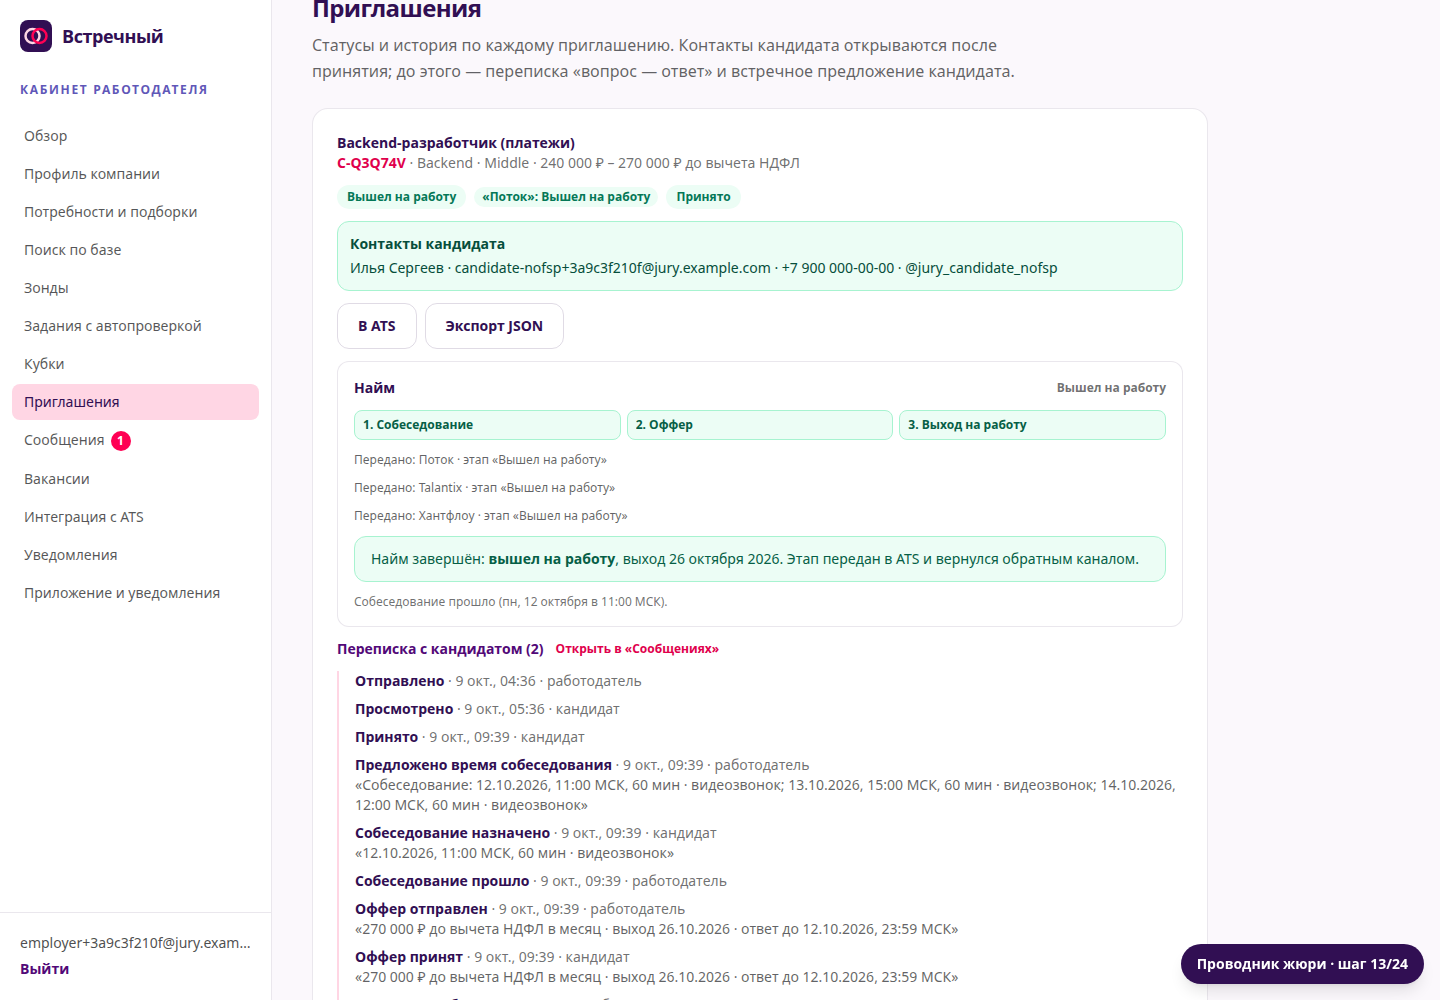
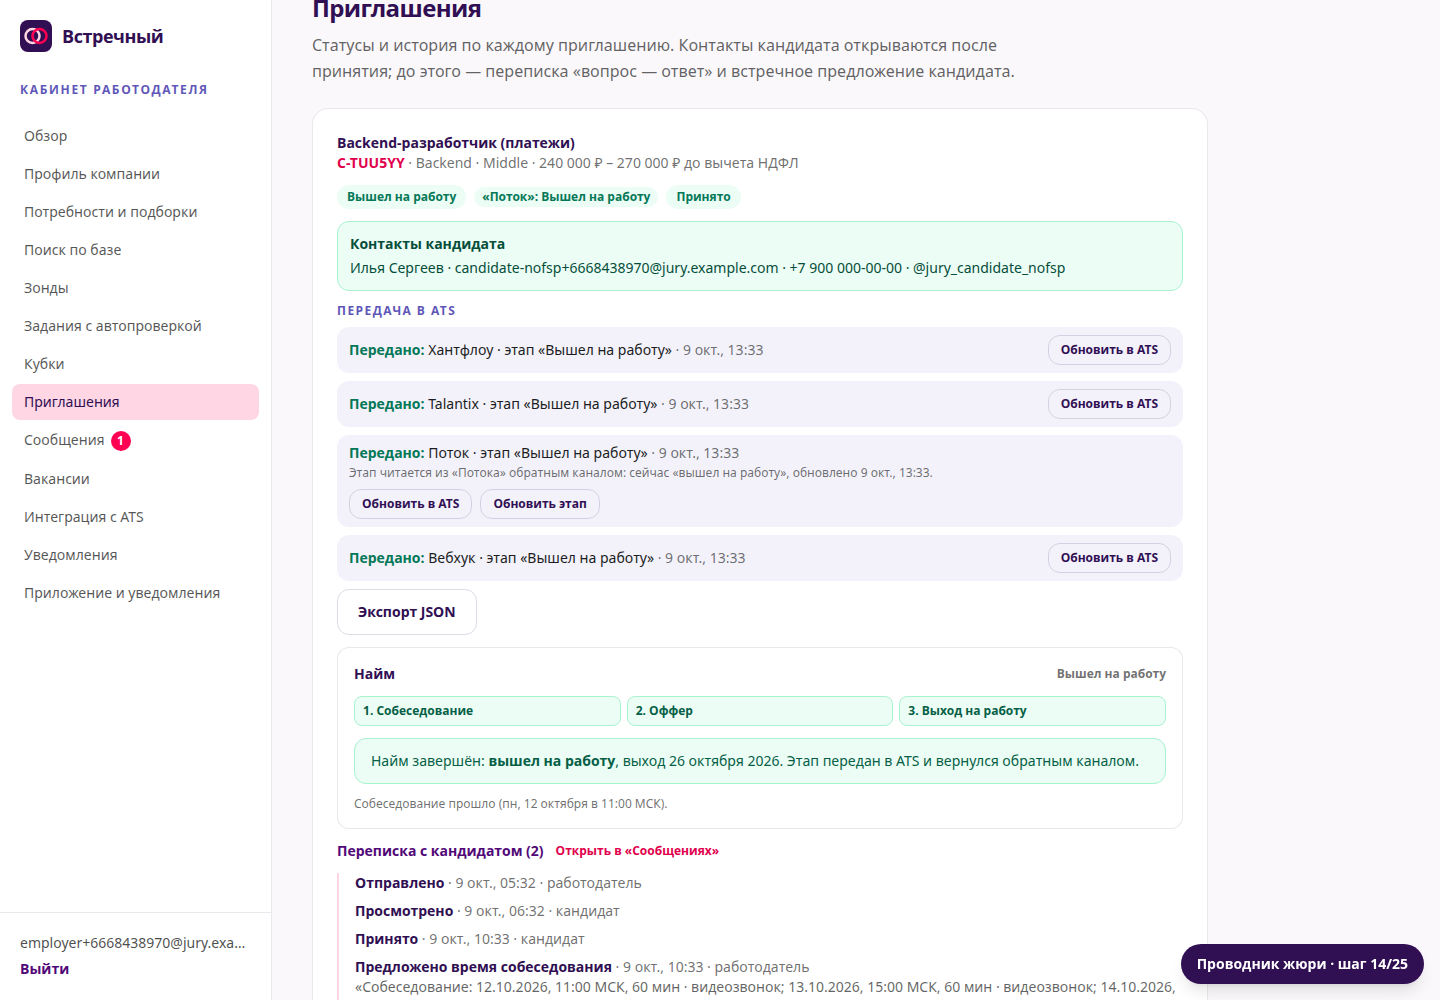
Найм: время передачи в ATS в карточке — с поясом (as_aware в invitation_transfers, на SQLite было без пояса); снимки пересняты после слияния Ф4 (блок «Передача в ATS» по системам с этапом найма); скрипт снимков ждёт состояния на сервере

diff --git a/backend/app/integrations/ats/service.py b/backend/app/integrations/ats/service.py
@@ -19,7 +19,7 @@ from sqlalchemy import or_, select, update
 from sqlalchemy.exc import IntegrityError
 from sqlalchemy.orm import Session
 
-from app.core.db import SessionLocal, utcnow
+from app.core.db import SessionLocal, as_aware, utcnow
 from app.core.enums import InvitationStatus
 from app.integrations.ats import profile as prof
 from app.integrations.ats import providers
@@ -271,7 +271,7 @@ def invitation_transfers(db: Session, company_id: uuid.UUID, inv: Invitation) ->
         state = "sent" if ok else "pending" if last is not None and last.status == "pending" \
             else "error" if last is not None else "not_sent"
         item = {"target": code, "title": TARGET_TITLES[code], "state": state, "enabled": code in enabled,
-                "at": (ok or last).created_at.isoformat() if (ok or last) else None,
+                "at": as_aware((ok or last).created_at).isoformat() if (ok or last) else None,
                 "auto": bool(ok and ok.trigger == "invitation_accepted"),
                 "error": last.error if state == "error" and last is not None else None,
                 "attempts": len(ds), "stage": None}
@@ -282,14 +282,17 @@ def invitation_transfers(db: Session, company_id: uuid.UUID, inv: Invitation) ->
                                  "name": rec.get("stage_name") or PLATFORM_STAGES[rec["stage"]], "at": rec.get("at"),
                                  "synced": True}
             elif (ok.result or {}).get("stage_title"):  # этап при передаче (до первого опроса «Потока»)
-                st_ = ok.result.get("stage") if (ok.trigger or "").startswith("hiring_") else "review"  # этап найма (Н8)
+                # передача этапа найма (Н8) — его этап; первичная передача — «на рассмотрении»
+                st_ = ok.result.get("stage") if (ok.trigger or "").startswith("hiring_") else "review"
                 item["stage"] = {"stage": st_, "title": PLATFORM_STAGES.get(st_, PLATFORM_STAGES["review"]),
-                                 "name": ok.result["stage_title"], "at": ok.created_at.isoformat(), "synced": False}
+                                 "name": ok.result["stage_title"], "at": as_aware(ok.created_at).isoformat(),
+                                 "synced": False}
         elif ok is not None and (ok.trigger or "").startswith("hiring_") and (ok.result or {}).get("stage_title"):
             # этап найма (Н8) в Talantix / Хантфлоу / вебхуке — из ответа ATS на перевод
             st_ = ok.result.get("stage")
             item["stage"] = {"stage": st_, "title": PLATFORM_STAGES.get(st_, ok.result["stage_title"]),
-                             "name": ok.result["stage_title"], "at": ok.created_at.isoformat(), "synced": False}
+                             "name": ok.result["stage_title"], "at": as_aware(ok.created_at).isoformat(),
+                             "synced": False}
         out.append(item)
     return out
 

diff --git a/docs/hiring/README.md b/docs/hiring/README.md
@@ -4,14 +4,15 @@
 работодатель предлагает готовые слоты → Илья выбирает → «Собеседование прошло» → оффер с готовыми значениями → Илья
 принимает → «Вышел на работу» → этап в «Потоке», Talantix, Хантфлоу и вебхуке, обратный канал возвращает этап
 «Вышел на работу» в приглашение у обеих сторон. Ширина 1440 и 390, горизонтальной прокрутки нет (проверка в скрипте).
-Данные — демо-учётки песочницы.
+Данные — демо-учётки песочницы. Время в «Истории» на снимках на 3 часа раньше московского: локальный стенд на SQLite
+хранит время без пояса (на PostgreSQL стенда — по Москве); время найма и передачи в ATS показано верно.
 
 | Снимок | Что на нём |
 |---|---|
 | `1-employer-slots-1440.png`, `1-employer-slots-390.png` | работодатель: блок «Найм», форма «Время собеседования» — три ближайших рабочих дня, видеозвонок, демо-ссылка |
 | `2-candidate-slots-1440.png`, `2-candidate-slots-390.png` | кандидат: выбор слота, «Подтвердить время» / «Ни один не подходит», история с предложенными слотами |
 | `3-candidate-offer-1440.png`, `3-candidate-offer-390.png` | кандидат: оффер (сумма, оценка «на руки», дата выхода, срок ответа) — принять, своя сумма, отклонить |
-| `4-employer-hired-1440.png`, `4-employer-hired-390.png` | работодатель: «Передано: Поток · этап «Вышел на работу»» по каждой ATS, бейдж «Поток»: Вышел на работу», история шагов |
+| `4-employer-hired-1440.png`, `4-employer-hired-390.png` | работодатель: блок «Передача в ATS» — «Передано: Поток · этап «Вышел на работу»» и так же по Хантфлоу, Talantix, вебхуку; бейдж ««Поток»: Вышел на работу»; «Найм завершён» |
 
 Повторить: backend на :8134 (`DATABASE_URL=sqlite:////tmp/hiring/srv/s.db DEV_MODE=true ATS_STUB_BASE_URL=http://127.0.0.1:8134
 HIRING_REMIND_POLL_S=0`, `alembic upgrade head`, `python -m app.modules.demo.seed`), Vite на :5134
